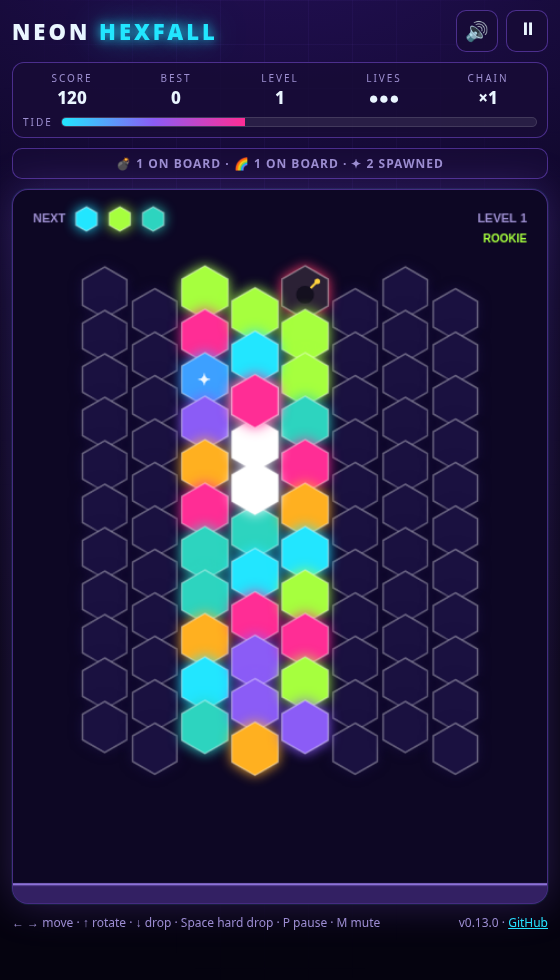
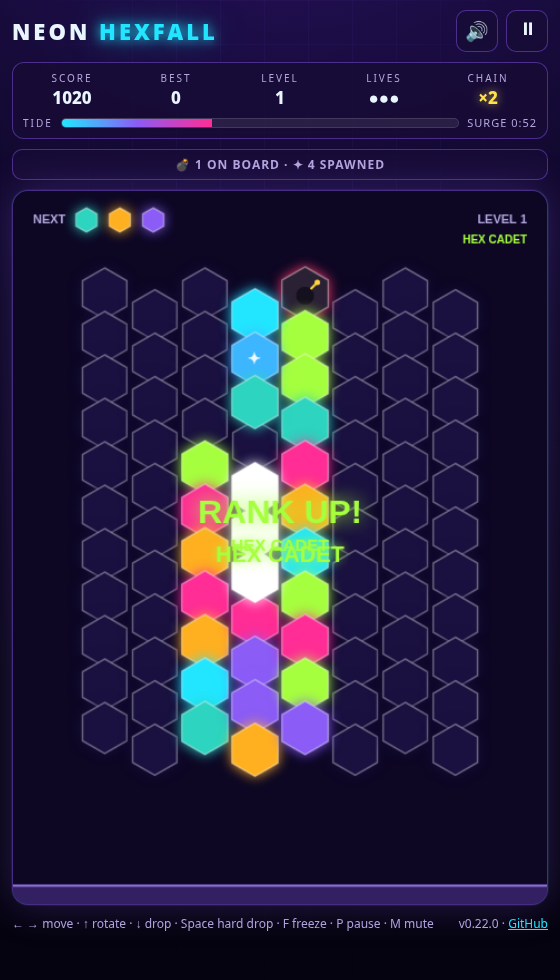
Block 22: level-up upgrade draft + README preview (v0.22.0)

diff --git a/docs/devlog.md b/docs/devlog.md
@@ -635,3 +635,57 @@
   the resume-promise catch, and the static cross-browser audit
   (ES5-style code, webkit prefix, 100vh fallback). Bot harness
   still 14/14, determinism holds.
+
+## Block 22 — Final polish + README preview (v0.22.0)
+
+- Level-up upgrade draft (backlog #24): every level-up (6 clears)
+  pauses the run on a pick-1-of-3 draft — 🌊 SLOWER TIDE (tide
+  interval ×1.25 per pick, max ×3), ❤ +1 LIFE (max 5 lives), ↔ WIDE
+  MATCH (pairs of 2 hexes now clear at 50 pts each, +25 per extra
+  pick, max ×3). Offers adapt to the mode: no slower tide in Zen, no
+  +1 life in Endless/Zen; when a named upgrade is maxed or useless, a
+  fallback fills the slot — banked freeze, bottom-rows break, or +500
+  points (always available, so the draft never comes up empty). Pick
+  with click/tap, keys 1/2/3, or arrows + Enter; P and Escape stay
+  inert on the draft (a pick is required). Multi-level jumps queue a
+  second draft. The run clock, tide and blitz timer all freeze while
+  the draft is open; picks show as chips in the specials strip and a
+  summary row on the game-over screen. Upgrades + the draft queue are
+  saved with the run, so a refresh mid-draft reopens the same draft;
+  a v0.21.0 save without the new fields still loads with no picks.
+  The tide rate divides by the slow multiplier, so the surge
+  countdown stretches automatically; the lives dots grow with the
+  5-life cap instead of going negative.
+- Real bug found by the bot: the draft's break fallback cleared the
+  bottom two rows without compacting the columns, leaving floating
+  hexes (audit failures in all 10 bot games). The in-game BREAK hex
+  gets its gravity from the cascade loop; the draft pick runs between
+  locks, so it now calls applyGravity() itself. Bot clean again:
+  15/15, 0 audit failures, 0 repairs, determinism holds.
+- README preview check: screenshots regenerated from the real game
+  (menu v0.22.0, gameplay score 1020, GIF re-stitched) and the README
+  refreshed — level-up draft in How to play + Features, testing
+  section updated to the real counts (smoke 726, bot 15, cross-browser
+  11/11 each). The screenshot script was fixed for the post-Block-20
+  first-visit how-to (it used to click a PLAY button hidden behind
+  the guide) and now picks a draft card if a level-up fires mid-shoot.
+- Pre-existing bug found by the menu screenshot: CONTINUE rendered on
+  every fresh menu — `syncContinueUI` hides it with the `hidden`
+  class, but no CSS rule ever hid `.btn.continue.hidden`, so it was a
+  dead button with no save to resume. Added the rule; the fresh menu
+  now shows PLAY only. (Smoke now checks the rule + the hidden state.)
+- Second find from the same screenshot: the menu content (779px) was
+  taller than its canvas-sized container (713px) and `justify-content:
+  center` pushed the title above the stage-wrap's `overflow: hidden`,
+  unreachable on short screens. Overlays now scroll (`overflow-y:
+  auto` + auto margins on first/last child), so tall overlays centre
+  when they fit and scroll when they don't.
+- Tests: smoke harness grew to 726 checks (61 new) — draft offers per
+  mode, maxed/fallback offers, one-card draft hiding, tide/life/wide
+  effects + payouts, keyboard picking + inert P/Escape, frozen run
+  clock on the draft, queued drafts, HUD chips + lives dots, game-over
+  upgrade row, save/restore incl. mid-draft resume and v0.21.0 save
+  compatibility, audit + sanitize for the new state, and static checks
+  for the overlay/cards/styles. Bot harness 15/15 (new: the bot picks
+  a draft card in games that level up). Cross-browser re-run: Chromium
+  159 + Firefox 159, 11/11 each, zero console/page errors.

diff --git a/docs/release-notes-v1.0.md b/docs/release-notes-v1.0.md
@@ -40,6 +40,13 @@ https://namdev-muse.github.io/neon-hexfall/
 - **Daily challenge:** everyone plays the same trios each day — beat
   the daily best, share your seed link to challenge a friend to the
   same board, and climb the ranks from Rookie to Hex Legend.
+- **Level-up upgrades:** every 6 clears you level up and pick 1 of 3
+  upgrades — a slower tide, an extra life (up to 5), or wider matches
+  that let pairs of 2 hexes clear. When an upgrade is maxed out or
+  doesn't fit the mode (no slower tide in Zen, no extra life in
+  Endless), the draft offers a banked freeze, a bottom-rows break, or
+  bonus points instead. Picks show in the HUD and the game-over stats,
+  and survive a refresh through the autosave.
 - **Meta:** local top-5 score table, lifetime run stats, game-over
   stats screen, and a first-visit how-to guide that opens
   automatically for new players. Your run is saved automatically —
